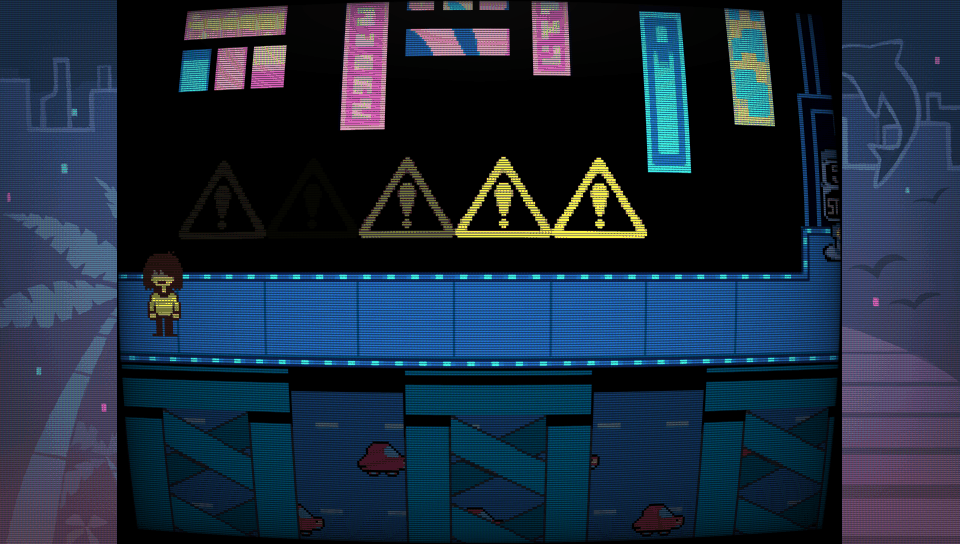
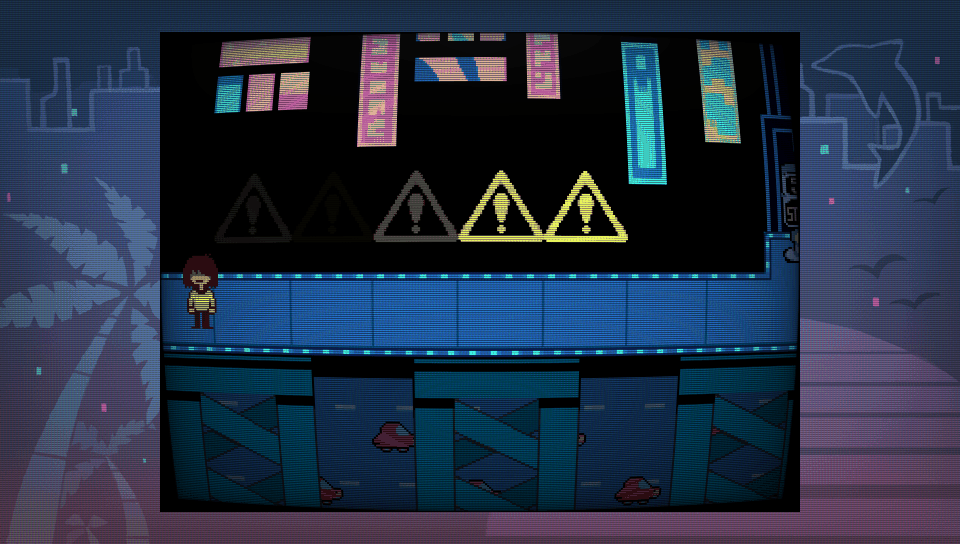
v0.84 release: CRT Agressivo GIF with the in-game 640x480 centered picture

diff --git a/scripts/preview-crt-aggressive-gif.py b/scripts/preview-crt-aggressive-gif.py
@@ -16,6 +16,8 @@ spec = importlib.util.spec_from_file_location("tube", HERE / "preview-crt-tube.p
 tube = importlib.util.module_from_spec(spec); spec.loader.exec_module(tube)
 
 W, H = 960, 544
+NATIVE = "--native" in sys.argv
+if NATIVE: sys.argv.remove("--native")
 
 def overlay(img, t, strength=1.15):
     """vita_crt_mod_gl.inc fragment: multiply by scanline, grille, vignette, grain."""
@@ -37,11 +39,18 @@ def overlay(img, t, strength=1.15):
 
 def frame(border, game, t):
     out = border.convert("RGB").resize((W, H), Image.NEAREST)
+    base = overlay(out, t)                                # borders: overlay
+    if NATIVE:
+        # In-game "native_centered": the 640x480 picture at 1:1 in the middle
+        # of the 960x544 screen, border visible above and below (rect 160,32).
+        pic = tube.tube(game.resize((640, 480), Image.NEAREST), 0.075, 640, 480)
+        sx, sy = (W - 640) // 2, (H - 480) // 2
+        base[sy:sy + 480, sx:sx + 640] = np.asarray(pic, dtype=np.float32)[:480, :640] / 255.0
+        return Image.fromarray((base * 255 + 0.5).astype(np.uint8))
     pic = tube.tube(game, 0.075)                                # 960x544, black outside the 4:3 picture
     pic_a = np.asarray(pic, dtype=np.float32) / 255.0
     th, tw = game.size[1], game.size[0]
     effW = int(round(tw * H / th)); sx = (W - effW) // 2
-    base = overlay(out, t)                                # borders: overlay
     base[:, sx:sx + effW] = pic_a[:, sx:sx + effW]        # picture: tube
     return Image.fromarray((base * 255 + 0.5).astype(np.uint8))
 
